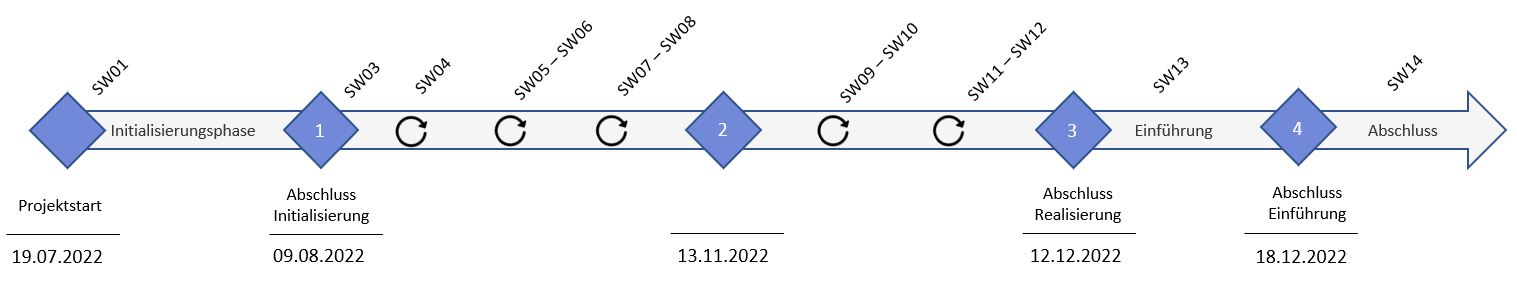
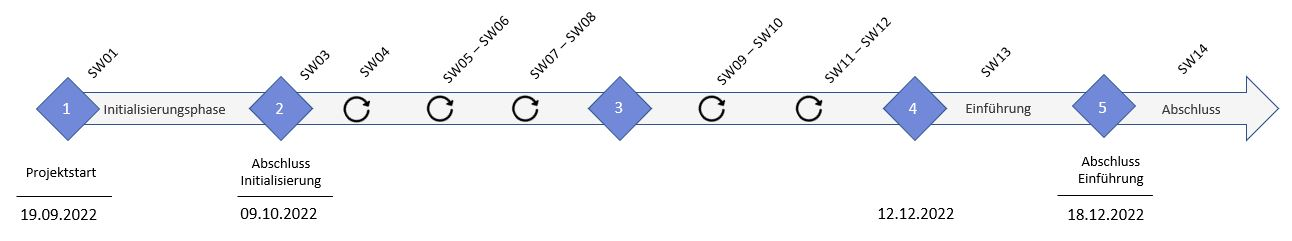
Added authentication and registration process diagramms.

diff --git a/wipro/doc/wipro-main-doc/wipro-main-doc.tex b/wipro/doc/wipro-main-doc/wipro-main-doc.tex
@@ -435,8 +435,6 @@ Die geplanten Zwischenergebnisse werden an fixen Punkten im Projekt als Meilenst
     \caption{Rahmenplan}
     \label{fig:Rahmenplan}
 \end{figure}
-\todo{Hinzufügen von Meilenstein am Anfang von Projekt}
-\todo{Datum bei Projektstart stimmt nicht}
 Es wurde entschieden eine Intialisierungsphase von 3 Wochen zu planen, da die Analyse der bestehenden Software in dieser Phase stattfindet.
 Am Schluss bleibt noch eine Woche für die Einführungsphase und das Erstellen der Anleitung.
 Für die Realisierungsphase bleiben 9 Wochen Zeit, die in Sprints eingeteilt werden können.
@@ -633,24 +631,38 @@ man Punkte f\"ur sein Haus sammeln kann. Am Ende jedes Jahres, also Ende Fr\"uhl
 gesammelt hat, als Gewinner gelobt.
 
 Der Discord-Server bietet die Platform um sein Haus zu mobilisieren oder die neuesten Ergebnisse den Studenten zu verk\"unden.
-Pro Haus gibt einen Channel. Momentan werden die Studenten noch manuell zu ihren zugeh\"origen Channels hinzugef\"ugt.
-\newline
-\newline
-\todo{Bild von Discord und Channels anzeigen}
-
-\subsubsection*{Ablauf Authentifizierung}
-\todo{Nicolas}
-\begin{figure}[h]
+Pro Haus gibt einen Channel. Momentan werden die Studenten noch manuell zu ihren zugeh\"origen Channels hinzugef\"ugt. \\
+Im folgenden Bild sieht man eine Übersicht über alle Discord Channels und Kategroien, wie sie momentan bestehen.
+\newpage
+\begin{figure}[ht]
     \centering
-    \includegraphics[width=1.0\textwidth]{img/Authentifizierungsprozess_Bot_alt.png}
-    \caption{Authentifizierungsprozess Bot alt}
-    \label{fig:Authentifizierungsprozess_Bot_alt}
+    \includegraphics[width=1.0\textwidth,height=10cm]{img/Stair_Discord_Channels.jpg}
+    \caption{Stair Discord Channels Alt}
+    \label{fig:stair_old_discord_channels}
 \end{figure}
 
+\subsubsection*{Ablauf Authentifizierung \& Modulanmeldung}
+In den folgenden zwei Seiten wird der Authentifizierungsprozess und der Modulanmeldungsprozess als Ablaufdiagramm beschrieben.
+Dieser Ablauf wird zum jetzigen Zeitpunkt durchgeführt.
+\todo{Noch mehr schreiben}
 
-\subsubsection*{Ablauf Modul-Channel Einschreibung}
-\todo{Bild Ablaufdiagramm Modul}
-
+\begin{landscape}
+    \begin{figure}[ht]
+        \centering
+        \hspace*{-4.1cm}
+        \includegraphics[width=1.9\textwidth]{img/Authentifizierungsprozess_Bot_alt.png}
+        \caption{Authentifizierungsprozess Bot alt}
+        \label{fig:Authentifizierungsprozess_Bot_alt}
+    \end{figure}
+    \clearpage
+    \begin{figure}[ht]
+        \centering
+        \hspace*{-4.1cm}
+        \includegraphics[width=1.9\textwidth]{img/Modulanmeldungsprozess_Bot_alt.png}
+        \caption{Modulanmeldungsprozess Bot alt}
+        \label{fig:Modulanmeldungsprozess_Bot_alt}
+    \end{figure}
+\end{landscape}
 
 \subsubsection{Funktionsweise Bot}
 Der Bot ist mit der Programmiersprache C\# und dem .NET Framework geschrieben.
@@ -658,7 +670,19 @@ Der Bot ist mit der Programmiersprache C\# und dem .NET Framework geschrieben.
 \subsubsection*{Konfigurationsmanagement alter Bot}
 In der folgenden Tabelle ist eine \"Ubersicht der benutzen IDE, ihrer Spezifizierung und den eingesetzten Libraries.
 \todo{Tabelle mit Spezifikationen vom System. (Versionen, Libraries)}
-\newline
+\begin{table}[h]
+    \centering
+    \begin{tabular}{|l|p{20em}|l|}
+        \hline
+        \rowcolor[gray]{.9} Name & Beschreibung & Version \\
+        \hline
+        .NET Core & Core Library für C\# Projekte.
+        Enthält alle grundlegend Klassen und Libraries, welche man zum Arbeiten braucht. & 4.0.0 \\
+        \hline
+    \end{tabular}
+    \caption{Konfigurationsmanagement}
+    \label{tab: Konfigurationsmanagement}
+\end{table}
 
 
 Das Programm, welches den Bot zur Verfügung stellt, ist nicht gross. Es beinhaltet im Groben einen Client Socket der
@@ -670,7 +694,13 @@ Das Programm ist in zwei Packages aufgeteilt.
     \item StanBot.Service
 \end{itemize}
 
-\todo{Bild Klassendiagramm Bot}
+\begin{figure}[h]
+    \centering
+    \hspace*{-1.5cm}
+    \includegraphics[width=1.2\textwidth]{img/Klassendiagramm_Bot_alt.png}
+    \caption{Klassendiagramm Bot alt}
+    \label{fig:Klassendiagramm_Bot_alt}
+\end{figure}
 
 \subsubsection{Ausführung Bot}
 
